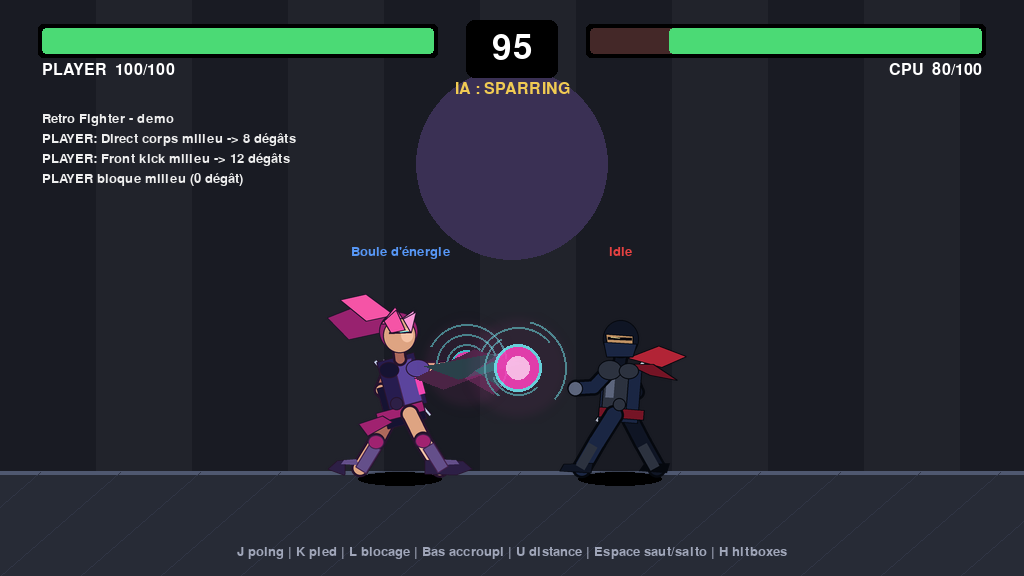
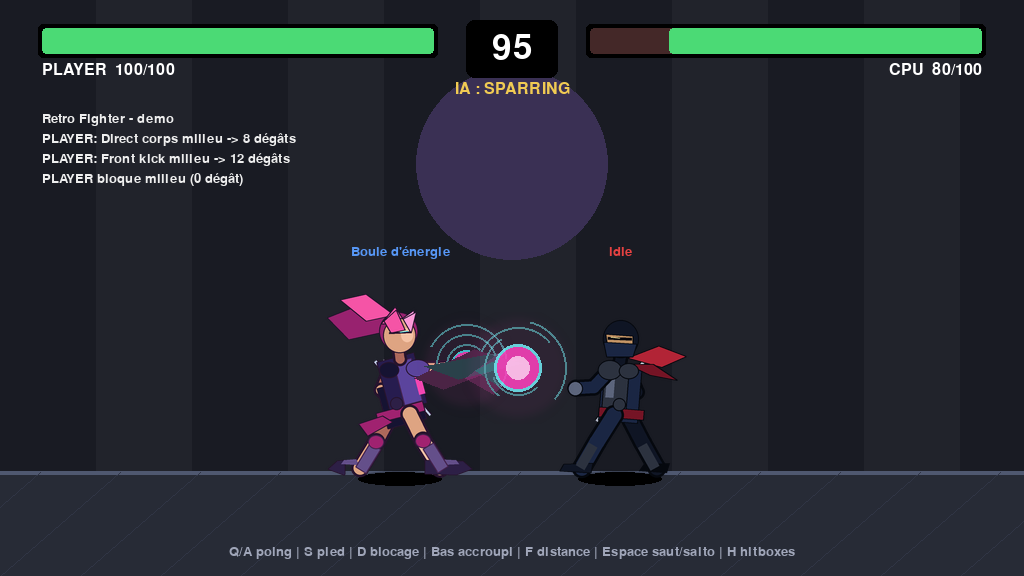
Remap combat keys to Q/A-S-D-F for AZERTY/QWERTY comfort
Replace J/K/L/U with a layout-aware left-hand cluster next to the movement
arrows: punch on Q (AZERTY) or A (QWERTY) — the only key that differs
between the two layouts at that position — kick/block/ranged on S/D/F,
identical on both. Controls.punch now takes multiple keycodes so both
letters trigger the same action without needing to detect the OS layout.

Update on-screen control hints, README, and SPECIFICATION accordingly, and
regenerate the demo screenshot/GIF so they reflect the new hint text.

Changed region(s): [[0.2188, 0.9375, 0.7812, 0.9688]]

diff --git a/retro_fighter/config.py b/retro_fighter/config.py
@@ -74,13 +74,18 @@ COLOR_HURTBOX = (80, 160, 255)
 
 @dataclass(frozen=True)
 class Controls:
-    """Keyboard layout for the human player."""
+    """Keyboard layout for the human player.
+
+    `punch` accepts multiple keycodes so both AZERTY (Q) and QWERTY (A) map
+    to the same physical key next to S/D/F — those three are already on the
+    same physical keys on both layouts, only the leftmost one (Q vs A) differs.
+    """
 
     left: int
     right: int
     up: int
     down: int
-    punch: int
+    punch: tuple[int, ...]
     kick: int
     block: int
     jump: int

diff --git a/retro_fighter/game.py b/retro_fighter/game.py
@@ -63,11 +63,11 @@ class Game:
             right=pygame.K_RIGHT,
             up=pygame.K_UP,
             down=pygame.K_DOWN,
-            punch=pygame.K_j,
-            kick=pygame.K_k,
-            block=pygame.K_l,
+            punch=(pygame.K_q, pygame.K_a),  # Q on AZERTY, A on QWERTY: same physical key
+            kick=pygame.K_s,
+            block=pygame.K_d,
             jump=pygame.K_SPACE,
-            ranged=pygame.K_u,
+            ranged=pygame.K_f,
         )
         self.human_controller = HumanController(controls)
         self.ai_controller = AIController("medium")

diff --git a/retro_fighter/renderer.py b/retro_fighter/renderer.py
@@ -94,8 +94,8 @@ class Renderer:
             self.screen.blit(desc_surf, (rect.x + 154, rect.y + 14))
 
         controls = [
-            "Contrôles : Gauche/Droite déplacement | Haut/Bas hauteur | J poing | K pied | L blocage | Espace saut",
-            "Bas seul au sol : accroupi | U : attaque à distance | Espace en l'air : salto (double saut)",
+            "Contrôles : Gauche/Droite déplacement | Haut/Bas hauteur | Q/A poing | S pied | D blocage | Espace saut",
+            "Bas seul au sol : accroupi | F : attaque à distance | Espace en l'air : salto (double saut)",
             "En match : 1-4 changer IA | R reset | H hitboxes | P pause | Échap quitter",
             "Appuie sur Entrée ou sur 1-4 pour lancer.",
         ]
@@ -189,7 +189,7 @@ class Renderer:
         mode_surf = self.font.render(mode_text, True, COLOR_YELLOW)
         self.screen.blit(mode_surf, mode_surf.get_rect(center=(WINDOW_WIDTH // 2, 90)))
 
-        controls = "J poing | K pied | L blocage | Bas accroupi | U distance | Espace saut/salto | H hitboxes"
+        controls = "Q/A poing | S pied | D blocage | Bas accroupi | F distance | Espace saut/salto | H hitboxes"
         control_surf = self.small_font.render(controls, True, COLOR_MUTED)
         self.screen.blit(control_surf, control_surf.get_rect(center=(WINDOW_WIDTH // 2, WINDOW_HEIGHT - 24)))
 

diff --git a/retro_fighter/input_manager.py b/retro_fighter/input_manager.py
@@ -52,7 +52,7 @@ class HumanController:
         for event in events:
             if event.type != pygame.KEYDOWN or getattr(event, "repeat", False):
                 continue
-            if event.key == self.controls.punch:
+            if event.key in self.controls.punch:
                 attack = "punch"
             elif event.key == self.controls.kick:
                 attack = "kick"

diff --git a/README.md b/README.md
@@ -93,34 +93,38 @@ python -m pygbag --build .  # build statique dans build/web/, sans lancer de ser
 
 ## Contrôles
 
-| Action | Touche |
-|---|---|
-| Déplacement gauche/droite | Flèches gauche/droite |
-| Viser haut | Flèche haut maintenue |
-| Viser bas | Flèche bas maintenue |
-| Viser milieu | aucune flèche haut/bas |
-| Coup de poing | J |
-| Coup de pied | K |
-| Blocage maintenu | L |
-| Saut / double saut (salto) | Espace |
-| Accroupissement | ↓ (seul, au sol) |
-| Attaque à distance | U |
-| Pause | P |
-| Reset round | R |
-| Afficher/cacher hitboxes | H |
-| Quitter | Échap |
+Disposition pensée pour AZERTY et QWERTY : poing/pied/blocage/distance occupent les mêmes touches physiques sur les deux claviers (rangée du milieu, juste après la touche de déplacement gauche) — seule la première touche change de lettre selon le layout (Q en AZERTY, A en QWERTY), S/D/F sont identiques sur les deux.
+
+| Action | Touche (AZERTY) | Touche (QWERTY) |
+|---|---|---|
+| Déplacement gauche/droite | Flèches gauche/droite | Flèches gauche/droite |
+| Viser haut | Flèche haut maintenue | Flèche haut maintenue |
+| Viser bas | Flèche bas maintenue | Flèche bas maintenue |
+| Viser milieu | aucune flèche haut/bas | aucune flèche haut/bas |
+| Coup de poing | Q | A |
+| Coup de pied | S | S |
+| Blocage maintenu | D | D |
+| Saut / double saut (salto) | Espace | Espace |
+| Accroupissement | ↓ (seul, au sol) | ↓ (seul, au sol) |
+| Attaque à distance | F | F |
+| Pause | P | P |
+| Reset round | R | R |
+| Afficher/cacher hitboxes | H | H |
+| Quitter | Échap | Échap |
 
 ### Hauteur des attaques et blocs
 
-- `J` seul : coup de poing milieu.
-- `↑ + J` : coup de poing haut.
-- `↓ + J` : coup de poing bas.
-- `K` seul : coup de pied milieu.
-- `↑ + K` : coup de pied haut.
-- `↓ + K` : coup de pied bas.
-- `L` seul : blocage milieu.
-- `↑ + L` : blocage haut.
-- `↓ + L` : blocage bas.
+(Touches données en AZERTY ; en QWERTY, remplacer `Q` par `A`.)
+
+- `Q` seul : coup de poing milieu.
+- `↑ + Q` : coup de poing haut.
+- `↓ + Q` : coup de poing bas.
+- `S` seul : coup de pied milieu.
+- `↑ + S` : coup de pied haut.
+- `↓ + S` : coup de pied bas.
+- `D` seul : blocage milieu.
+- `↑ + D` : blocage haut.
+- `↓ + D` : blocage bas.
 - `↓` seul (sans attaque ni blocage) : accroupissement. `↓ + ←/→` : déplacement accroupi (plus lent).
 
 En l'air, une fois le premier saut lancé, `Espace` déclenche un second saut avec une animation de salto, tant qu'il n'a pas déjà été utilisé depuis l'atterrissage.
@@ -149,7 +153,7 @@ Chaque personnage a son propre projectile, défini dans `retro_fighter/projectil
 | `shinobi` | Shuriken | 8 | 560 px/s |
 | `rose_kunoichi` | Boule d'énergie | 10 | 455 px/s |
 
-Touche `U` : charge (`ranged_charge`) puis lance (`ranged_throw`) à hauteur d'épaules. Règles de collision :
+Touche `F` : charge (`ranged_charge`) puis lance (`ranged_throw`) à hauteur d'épaules. Règles de collision :
 
 - accroupissement : esquive (la hurtbox réduite passe sous le projectile, aucune règle spéciale nécessaire) ;
 - salto (double saut) suffisamment haut (`PROJECTILE_AVOID_Y_DELTA` dans `config.py`) : esquive ;

diff --git a/SPECIFICATION.md b/SPECIFICATION.md
@@ -36,15 +36,15 @@ La version actuelle vise à valider les mécaniques fondamentales : déplacement
 
 ## 3. Contrôles
 
-Le joueur humain utilise :
+Le joueur humain utilise (touches données en AZERTY ; `Q` devient `A` en QWERTY, le reste est identique sur les deux layouts puisque S/D/F occupent la même position physique) :
 
 - Flèche gauche/droite : déplacement.
 - Flèche haut/bas : modificateur de hauteur.
-- `J` : coup de poing.
-- `K` : coup de pied.
-- `L` : blocage.
+- `Q` (`A` en QWERTY) : coup de poing.
+- `S` : coup de pied.
+- `D` : blocage.
 - `Espace` : saut (en l'air : double saut/salto).
-- `U` : attaque à distance.
+- `F` : attaque à distance.
 
 La hauteur vaut :
 
@@ -115,13 +115,13 @@ Si deux attaques touchent exactement sur la même frame, les deux coups sont app
 
 ### 4.5 Blocage
 
-Le blocage est maintenu avec `L`.
+Le blocage est maintenu avec `D`.
 
 La hauteur du blocage est déterminée par haut/bas/neutre :
 
-- `↑ + L` : blocage haut ;
-- `L` seul : blocage milieu ;
-- `↓ + L` : blocage bas.
+- `↑ + D` : blocage haut ;
+- `D` seul : blocage milieu ;
+- `↓ + D` : blocage bas.
 
 Un blocage correct annule entièrement les dégâts.
 
@@ -141,7 +141,7 @@ Pendant un `double_jump`, le déplacement latéral utilise `DOUBLE_JUMP_AIR_CONT
 
 ### 4.8 Attaque à distance
 
-Touche `U`. Chaque personnage lance son propre projectile (`retro_fighter/projectiles.py`) : shuriken pour `shinobi`, boule d'énergie pour `rose_kunoichi`. L'action se déroule en deux temps visuels (`ranged_charge` puis `ranged_throw`), le projectile étant lancé à une frame précise du lancer, à hauteur d'épaules.
+Touche `F`. Chaque personnage lance son propre projectile (`retro_fighter/projectiles.py`) : shuriken pour `shinobi`, boule d'énergie pour `rose_kunoichi`. L'action se déroule en deux temps visuels (`ranged_charge` puis `ranged_throw`), le projectile étant lancé à une frame précise du lancer, à hauteur d'épaules.
 
 Résolution des collisions projectile/adversaire :
 